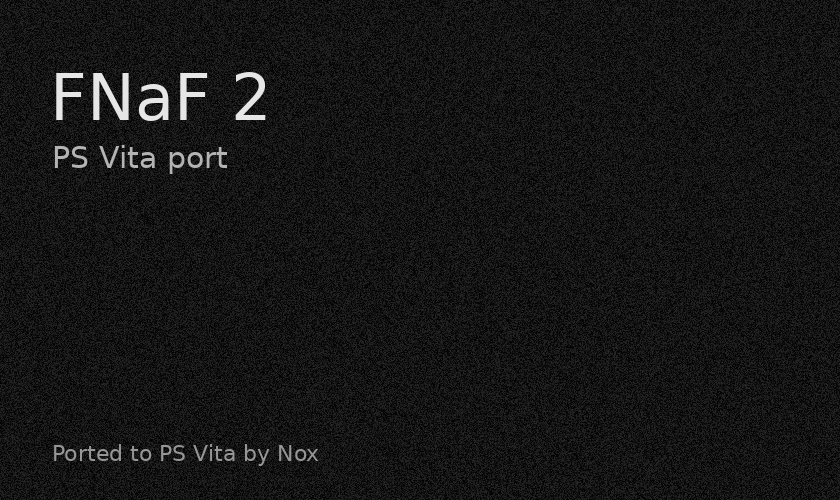
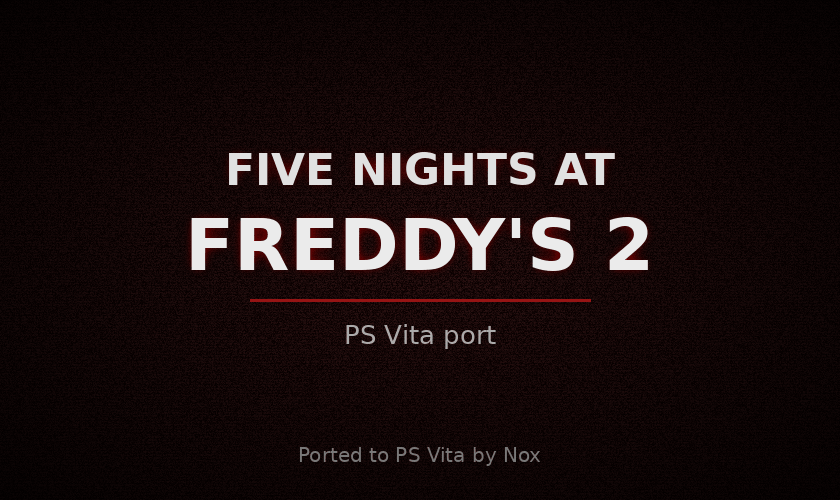
Fix panorama effect on Vita; full title and new LiveArea art

diff --git a/src/plat_vita.c b/src/plat_vita.c
@@ -254,6 +254,8 @@ int main(void) {
     sceTouchSetSamplingState(SCE_TOUCH_PORT_FRONT, SCE_TOUCH_SAMPLING_STATE_START);
     sceCtrlSetSamplingMode(SCE_CTRL_MODE_ANALOG);
     G.rng = (unsigned)sceKernelGetProcessTimeWide();
+    // panorama render target: allocate it before the texture pool takes the video memory, otherwise it silently fails
+    rt = vita2d_create_empty_texture_rendertarget(SCR_W, SCR_H, SCE_GXM_TEXTURE_FORMAT_A8B8G8R8);
     pool_add(SCE_KERNEL_MEMBLOCK_TYPE_USER_CDRAM_RW, 88u << 20);
     pool_add(SCE_KERNEL_MEMBLOCK_TYPE_USER_RW_UNCACHE, 48u << 20);
     font_init("app0:data/font.ttf");
@@ -262,7 +264,7 @@ int main(void) {
     snprintf(G.savedir, sizeof G.savedir, "ux0:data/fnaf2/save");
     S = (float)SCR_H / G.h; if (G.w * S > SCR_W) S = (float)SCR_W / G.w;
     rtW = (int)(G.w * S + 0.5f); rtH = (int)(G.h * S + 0.5f);
-    rt = vita2d_create_empty_texture_rendertarget(rtW, rtH, SCE_GXM_TEXTURE_FORMAT_A8B8G8R8);
+    if (!rt) logf_("panorama render target could not be created");
     cache_set_budget(poolTotal - (12L << 20));
     snd_init(); snd_preload_all();
     SceUID ath = sceKernelCreateThread("fp2_audio", audio_thread, 0x10000100 - 10, 256 * 1024, 0, SCE_KERNEL_CPU_MASK_USER_1, NULL);
